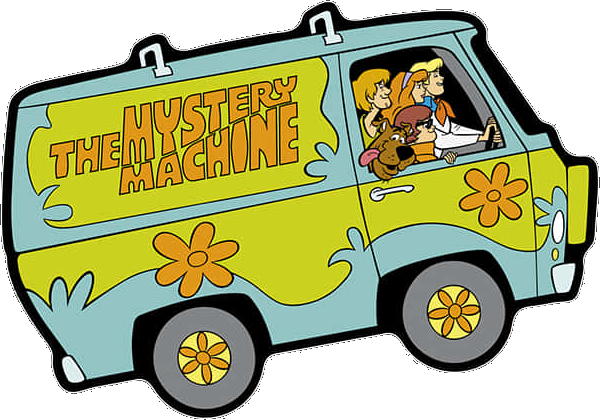
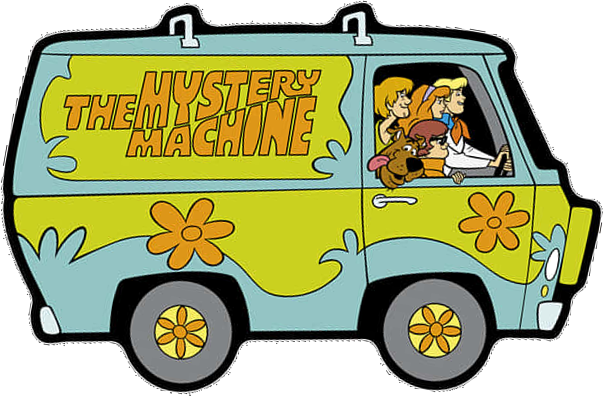
Launcher: level van, drop ghost and subtitle, keep credit on top
The Mystery Machine picture is rotated 10 degrees so both wheels sit on the road.
The ghost and the subtitle tag are gone; "Made by JosiahG" sits under the title.
Title and credit are a separate layer drawn last, so the van and mansion windows
pass behind them.

diff --git a/launcher/MainForm.cs b/launcher/MainForm.cs
@@ -4,7 +4,7 @@ using System.Media;
 
 namespace ScoobyReMasked;
 
-// The launcher window: a spooky animated header (haunted mansion, bats, a ghost to unmask, the gang's van), a nav column
+// The launcher window: a spooky animated header (haunted mansion, bats, the Mystery Machine), a nav column
 // with Scooby catching snacks, and one card per page (Play, Display, Controls, Mods). Everything it changes goes to
 // Play\UserData\Config.toml, the keys the game's F10 menu uses. All art is drawn here; nothing from the game is shipped.
 sealed class MainForm : Form
@@ -60,10 +60,9 @@ sealed class MainForm : Form
         nav.Paint += PaintNav;
         header.MouseClick += (_, e) =>
         {
-            if (ghostRect.Contains(e.Location)) startAt["ghost"] = T;
-            else if (vanRect.Contains(e.Location)) { startAt["van"] = T; SystemSounds.Asterisk.Play(); }
+            if (vanRect.Contains(e.Location)) { startAt["van"] = T; SystemSounds.Asterisk.Play(); }
         };
-        header.MouseMove += (_, e) => header.Cursor = ghostRect.Contains(e.Location) || vanRect.Contains(e.Location) ? glassHand : glassCursor;
+        header.MouseMove += (_, e) => header.Cursor = vanRect.Contains(e.Location) ? glassHand : glassCursor;
         nav.MouseClick += (_, e) => { if (snackRect.Contains(e.Location) && Progress("snack", 1.1) < 0) { startAt["snack"] = T; snacks++; } };
         nav.MouseMove += (_, e) => nav.Cursor = snackRect.Contains(e.Location) ? glassHand : glassCursor;
         var frame = new System.Windows.Forms.Timer { Interval = 33 };
@@ -91,7 +90,6 @@ sealed class MainForm : Form
             // Headless visual check: every page drawn to <dir>\<page>.png, plus the two pointers.
             Directory.CreateDirectory(shotDir);
             shotShift = 9;
-            startAt["ghost"] = T - 0.9;  // mid-unmask, so the shot shows the culprit
             foreach (var p in pages)
             {
                 ShowPage(p.button);
@@ -158,10 +156,10 @@ sealed class MainForm : Form
     double T => (animate ? clock.Elapsed.TotalSeconds : 1.0) + shotShift;
     double shotShift;  // --shots moves the clock on so the van is mid-road
     readonly Dictionary<string, double> startAt = new();
-    Bitmap? headerBack, headerFront;
+    Bitmap? headerBack, headerFront, headerTitle;
     readonly List<RectangleF> windows = new();
     readonly List<(float x, float y, float r, float phase)> stars = new();
-    Rectangle ghostRect, vanRect, snackRect;
+    Rectangle vanRect, snackRect;
     int navSpriteTop, snacks;
 
     static int Lerp(int a, int b, float f) => (int)(a + (b - a) * f);
@@ -299,23 +297,30 @@ sealed class MainForm : Form
             g.FillRectangle(dark, 0, ground, r.Width, r.Height - ground);
             using (var line = new Pen(Color.FromArgb(120, Gold), S(2)) { DashPattern = new[] { 6f, 5f } })
                 g.DrawLine(line, 0, r.Height - S(9), r.Width, r.Height - S(9));
-
-            // Title in a groovy face, orange to gold with a thick outline.
+        }
+        // Title and credit on their own layer, drawn last so the van and windows pass behind them.
+        headerTitle?.Dispose();
+        headerTitle = new Bitmap(size.Width, size.Height);
+        using (var g = Graphics.FromImage(headerTitle))
+        {
+            g.SmoothingMode = SmoothingMode.AntiAlias;
+            g.TextRenderingHint = System.Drawing.Text.TextRenderingHint.AntiAliasGridFit;
+            // Title in a groovy face, yellow to orange with the logo's red-orange rim.
             using var path = new GraphicsPath();
             var fmt = new StringFormat { Alignment = StringAlignment.Center };
             float em = Math.Min(S(46), (r.Width - S(2 * 190)) / 12f);
-            path.AddString("SCOOBY-DOO: RE-MASKED", TitleFont(), (int)FontStyle.Bold, em, new Point(r.Width / 2, S(18)), fmt);
+            path.AddString("SCOOBY-DOO: RE-MASKED", TitleFont(), (int)FontStyle.Bold, em, new Point(r.Width / 2, S(30)), fmt);
             using (var outline = new Pen(Ink, S(9)) { LineJoin = LineJoin.Round }) g.DrawPath(outline, path);
             using (var rim = new Pen(Hex("#E2491B"), S(4)) { LineJoin = LineJoin.Round }) g.DrawPath(rim, path);
             using (var fill = new LinearGradientBrush(new Rectangle(0, S(16), 10, (int)em + S(10)), Hex("#FFE85C"), Hex("#F7941D"), LinearGradientMode.Vertical)) g.FillPath(fill, path);
-            using var sub = new Font("Segoe UI", 10.5f, FontStyle.Bold);
-            var subText = "Scooby-Doo! Unmasked (GameCube) on PC  -  made by JosiahG";
-            var subSize = g.MeasureString(subText, sub);
-            var subRect = new RectangleF(r.Width / 2f - subSize.Width / 2 - S(10), S(18) + em * 1.3f, subSize.Width + S(20), subSize.Height + S(2));
-            using (var tag = Rounded(Rectangle.Round(subRect), S(8)))
-            using (var tagFill = new SolidBrush(Teal))
-            using (var tagInk = new Pen(Ink, S(2))) { g.FillPath(tagFill, tag); g.DrawPath(tagInk, tag); }
-            g.DrawString(subText, sub, Brushes.White, new PointF(r.Width / 2f, subRect.Y + S(1)), fmt);
+            using (var credit = new Font("Segoe UI", 11f, FontStyle.Bold))
+            using (var shadow = new SolidBrush(Color.FromArgb(160, 0, 0, 0)))
+            using (var light = new SolidBrush(Moon))
+            {
+                var at = new PointF(r.Width / 2f, S(30) + em * 1.28f);
+                g.DrawString("Made by JosiahG", credit, shadow, at.X + S(1), at.Y + S(1), fmt);
+                g.DrawString("Made by JosiahG", credit, light, at, fmt);
+            }
         }
     }
 
@@ -363,25 +368,20 @@ sealed class MainForm : Form
             g.FillRectangle(lit, windows[i]);
         }
 
-        // The ghost bobs on the left; a click lifts the sheet to show who it really was.
-        float gs = S(70);
-        float gx = S(36), gy = (float)(S(28) + Math.Sin(t * 1.8) * S(8));
-        ghostRect = new Rectangle((int)gx, (int)gy, (int)gs, (int)(gs * 1.15f));
-        DrawGhost(g, gx, gy, gs, Progress("ghost", 2.6));
-
         // The Mystery Machine drives along the road, headlights on; a click makes it hop.
         if (VanArt != null)
         {
-            float vw = S(86), vh = vw * VanArt.Height / VanArt.Width, ground = r.Height - S(2);
+            float vw = S(100), vh = vw * VanArt.Height / VanArt.Width, ground = r.Height - S(2);
             double hop = Progress("van", 0.6);
             float bounce = (float)(Math.Abs(Math.Sin(t * 9)) * S(2) + (hop < 0 ? 0 : Math.Sin(hop * Math.PI) * S(26)));
             float vx = (float)((t * S(60)) % (r.Width + vw * 2)) - vw, vy = ground - vh - bounce;
             vanRect = new Rectangle((int)vx, (int)vy, (int)vw, (int)vh);
             using (var beam = new SolidBrush(Color.FromArgb(55, 255, 240, 170)))
-                g.FillPolygon(beam, new[] { new PointF(vx + vw * 0.96f, vy + vh * 0.6f), new PointF(vx + vw * 2f, vy + vh * 0.25f), new PointF(vx + vw * 2f, vy + vh * 1.05f) });
+                g.FillPolygon(beam, new[] { new PointF(vx + vw * 0.97f, vy + vh * 0.68f), new PointF(vx + vw * 2f, vy + vh * 0.38f), new PointF(vx + vw * 2f, vy + vh * 1.05f) });
             if (vanSized == null || vanSized.Height != (int)vh) vanSized = SizedArt(VanArt, (int)vh);
             g.DrawImageUnscaled(vanSized, (int)vx, (int)vy);
         }
+        g.DrawImageUnscaled(headerTitle!, 0, 0);
     }
 
     static void DrawBat(Graphics g, float x, float y, float s, float flap)
@@ -395,60 +395,6 @@ sealed class MainForm : Form
         g.FillEllipse(b, x - s * 0.22f, y - s * 0.25f, s * 0.44f, s * 0.55f);
         g.FillPolygon(b, new[] { new PointF(x - s * 0.18f, y - s * 0.18f), new PointF(x - s * 0.12f, y - s * 0.42f), new PointF(x - s * 0.02f, y - s * 0.2f) });
         g.FillPolygon(b, new[] { new PointF(x + s * 0.18f, y - s * 0.18f), new PointF(x + s * 0.12f, y - s * 0.42f), new PointF(x + s * 0.02f, y - s * 0.2f) });
-    }
-
-    // u = unmask progress 0..1 (or -1): the sheet rises and comes back down; under it is the culprit.
-    static void DrawGhost(Graphics g, float x, float y, float s, double u)
-    {
-        float lift = u < 0 ? 0 : (float)Math.Sin(u * Math.PI);
-        using var ink = new Pen(Ink, Math.Max(2f, s / 26f)) { StartCap = LineCap.Round, EndCap = LineCap.Round };
-        using var inkFill = new SolidBrush(Ink);
-        if (lift > 0.05f)
-        {
-            // The culprit: a grumpy caretaker with grey hair and a moustache.
-            var face = new RectangleF(x + s * 0.18f, y + s * 0.18f, s * 0.64f, s * 0.7f);
-            using (var skin = new SolidBrush(Hex("#E8B98A"))) g.FillEllipse(skin, face);
-            using (var hair = new SolidBrush(Hex("#B9B4C4")))
-            {
-                g.FillEllipse(hair, face.X - s * 0.06f, face.Y + s * 0.02f, s * 0.2f, s * 0.3f);
-                g.FillEllipse(hair, face.Right - s * 0.14f, face.Y + s * 0.02f, s * 0.2f, s * 0.3f);
-                g.FillEllipse(hair, face.X + s * 0.14f, face.Bottom - s * 0.3f, s * 0.36f, s * 0.12f);  // moustache
-            }
-            g.DrawEllipse(ink, face);
-            g.FillEllipse(inkFill, face.X + s * 0.16f, face.Y + s * 0.3f, s * 0.08f, s * 0.08f);
-            g.FillEllipse(inkFill, face.Right - s * 0.24f, face.Y + s * 0.3f, s * 0.08f, s * 0.08f);
-            g.DrawLine(ink, face.X + s * 0.1f, face.Y + s * 0.2f, face.X + s * 0.28f, face.Y + s * 0.26f);  // cross brows
-            g.DrawLine(ink, face.Right - s * 0.1f, face.Y + s * 0.2f, face.Right - s * 0.28f, face.Y + s * 0.26f);
-            if (lift > 0.6f)
-            {
-                using var f = new Font("Segoe UI", s * 0.17f, FontStyle.Bold, GraphicsUnit.Pixel);
-                const string line = "Jinkies! It was\nthe caretaker!";
-                var size = g.MeasureString(line, f);
-                // Under the culprit, clear of the title.
-                var bubble = new RectangleF(x - s * 0.1f, y + s * 0.95f, size.Width + s * 0.2f, size.Height + s * 0.12f);
-                using var path = Rounded(Rectangle.Round(bubble), (int)(s * 0.12f));
-                using var border = new Pen(Ink, 2);
-                g.FillPath(Brushes.White, path);
-                g.DrawPath(border, path);
-                g.DrawString(line, f, inkFill, bubble.X + s * 0.1f, bubble.Y + s * 0.06f);
-            }
-        }
-        // The sheet: a dome with a wavy hem, lifted and faded during the unmask.
-        float oy = y - lift * s * 1.1f;
-        int alpha = (int)(245 * (1 - lift * 0.75f));
-        using var sheet = new GraphicsPath();
-        sheet.AddArc(x, oy, s, s * 0.9f, 180, 180);
-        float hem = oy + s * 1.1f;
-        sheet.AddLine(x + s, oy + s * 0.45f, x + s, hem);
-        for (int i = 3; i >= 1; i--)
-            sheet.AddArc(x + s * (i - 1) / 3f, hem - s * 0.1f, s / 3f, s * 0.2f, 0, 180);
-        sheet.CloseFigure();
-        using (var cloth = new SolidBrush(Color.FromArgb(alpha, 248, 248, 255))) g.FillPath(cloth, sheet);
-        using (var edge = new Pen(Color.FromArgb(alpha, Ink), Math.Max(2f, s / 26f))) g.DrawPath(edge, sheet);
-        using var eye = new SolidBrush(Color.FromArgb(alpha, Ink));
-        g.FillEllipse(eye, x + s * 0.28f, oy + s * 0.32f, s * 0.13f, s * 0.2f);
-        g.FillEllipse(eye, x + s * 0.58f, oy + s * 0.32f, s * 0.13f, s * 0.2f);
-        g.FillEllipse(eye, x + s * 0.43f, oy + s * 0.62f, s * 0.14f, s * 0.16f);
     }
 
     // A bone-shaped Scooby Snack biscuit.
@@ -635,7 +581,6 @@ sealed class MainForm : Form
         "Cinematic 2.39:1 shows more of every level than the GameCube ever could.",
         "Something look odd at 120 fps? Set the frame rate to 60 on the Display page.",
         "Saves live in Play\\UserData. A backup now and then never hurts.",
-        "Click the ghost up there. Let's see who's really under that sheet!",
         "Hungry? Click the Scooby Snack by the menu.",
         "Give the van a click. Beep beep!",
     };

diff --git a/AGENTS.md b/AGENTS.md
@@ -110,8 +110,8 @@ Diagnostics: SCOOBY_TRACE_IO=1 ([io] completions, [aram] transfers); Play\drawdu
   .ciso reader untested. The launcher walks up to the folder with Play\Scooby-Doo Re-Masked.exe, so in the dev tree
   extracting a disc REPLACES the dev Disc\DATA.
 - Launcher look (SPM-style; scene drawn in code, Scooby picture supplied by the user): night header with twinkling stars, moon,
-  haunted mansion (flickering windows), bats, a ghost (click = unmask: caretaker + "Jinkies!" bubble), the gang's van
-  driving with headlights (click = hop + sound); Scooby (launcher\scooby.png, the user's picture, embedded; cut out
+  haunted mansion (flickering windows), bats, the Mystery Machine (launcher\mystery_machine.png, user's picture,
+  rotated 10 deg level) driving with headlights (click = hop + sound); title + "Made by JosiahG" on a top layer; Scooby (launcher\scooby.png, the user's picture, embedded; cut out
   with ImageMagick floodfill) under the nav catches a Scooby Snack on click and hops; magnifying-glass cursor; "Scooby says" tips. `--shots <dir>` draws every page to PNGs.
 - Packaging: tools\package-scooby.ps1 [-Build] [-Zip] -> dist\ScoobyDooReMasked (launcher, Play runtime files,
   README from tools\package-README.txt). No disc data shipped.
